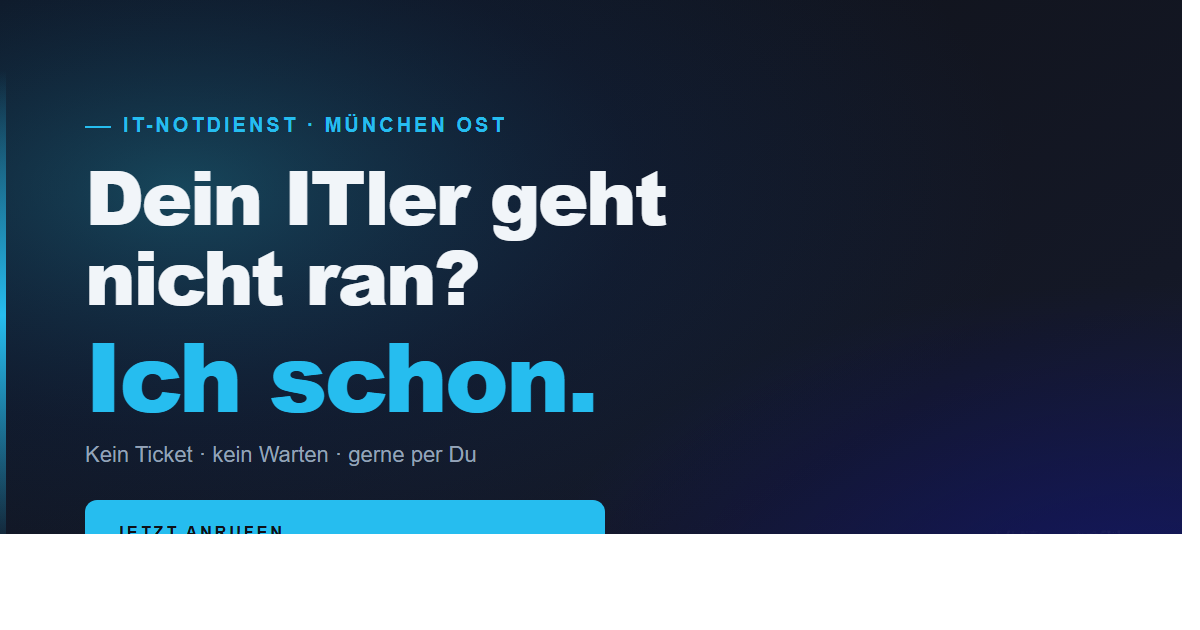
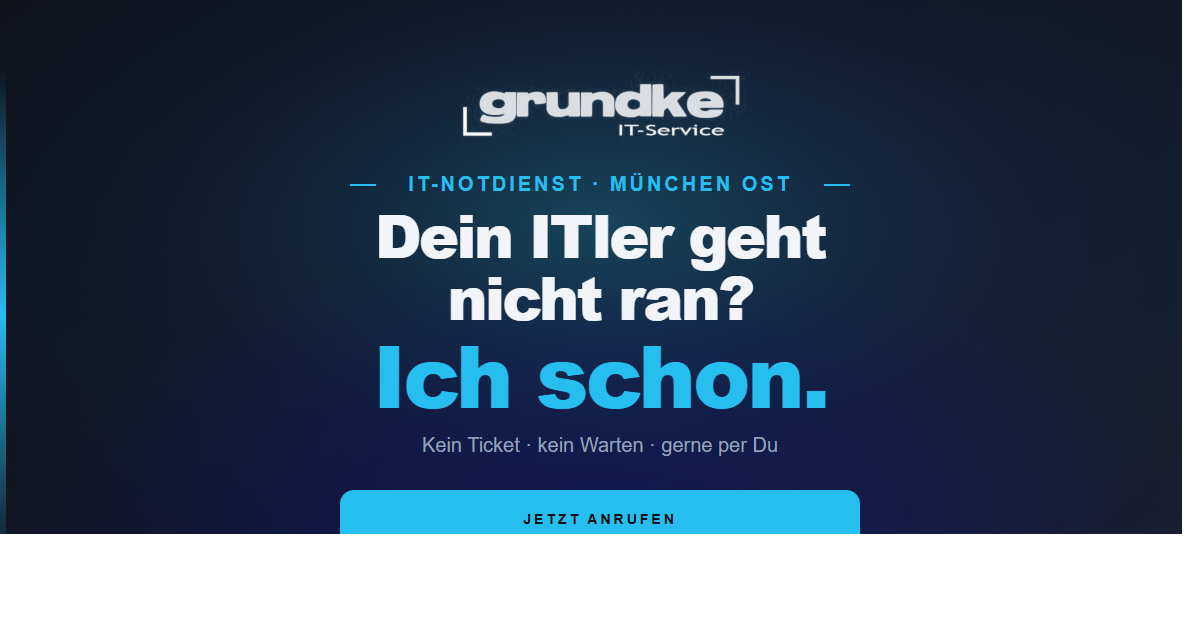
fix: Sticky Desktop hoeher + OG-Image V4 WhatsApp-safe zentriert
Sticky-Bar Desktop:
- top: 22% -> top: calc(var(--nav-h) + 24px)
- sitzt jetzt knapp unter der Nav-Leiste, deckt den rechten Hero-
  Slider-Pfeil nicht mehr ab.

OG-Image V4.2 (center-safe):
- Alle wichtigen Elemente in der zentralen 700-px-Zone (x: 250-950)
- Logo zentriert oben, Headline in 2 Zeilen wie Website-Hero
  "Dein ITler geht / nicht ran?" + "Ich schon."
- Phone-Button zentriert, JETZT-ANRUFEN-Label + Nummer
- Stripes links/rechts bleiben Dekoration, werden beim WhatsApp-
  Mobile-Crop (~630x630 aus Mitte) nicht mehr vermisst.

Service Worker auf v1.4.1 fuer Cache-Bust.

diff --git a/assets/css/style.css b/assets/css/style.css
@@ -154,9 +154,9 @@ button { font-family: var(--fb); cursor: pointer; }
 /* ── Desktop: Sidebar rechts ── */
 @media (min-width: 768px) {
   .sticky-contact {
-    /* Oberhalb des Hero-Slider-Pfeils (der sitzt bei top:50%) — damit die
-       Slider-Navigation rechts nicht verdeckt wird. */
-    right: 0; top: 22%;
+    /* Knapp unter der Nav-Leiste — damit der Hero-Slider-Pfeil rechts
+       (der bei top:50% sitzt) klar sichtbar bleibt. */
+    right: 0; top: calc(var(--nav-h) + 24px);
     flex-direction: column;
     background: #0a0a2e;
     border-radius: 12px 0 0 12px;

diff --git a/sw.js b/sw.js
@@ -21,8 +21,8 @@
  *   1.0.0 / 2026-04-11 — Initial Release-2 PWA-Setup
  */
 
-const CACHE_NAME    = 'grundke-it-v1.4.0';
-const RUNTIME_CACHE = 'grundke-it-runtime-v3';
+const CACHE_NAME    = 'grundke-it-v1.4.1';
+const RUNTIME_CACHE = 'grundke-it-runtime-v4';
 
 /* Pre-Cache: minimaler Kern fuer Offline-First-Boot */
 const PRECACHE_URLS = [
